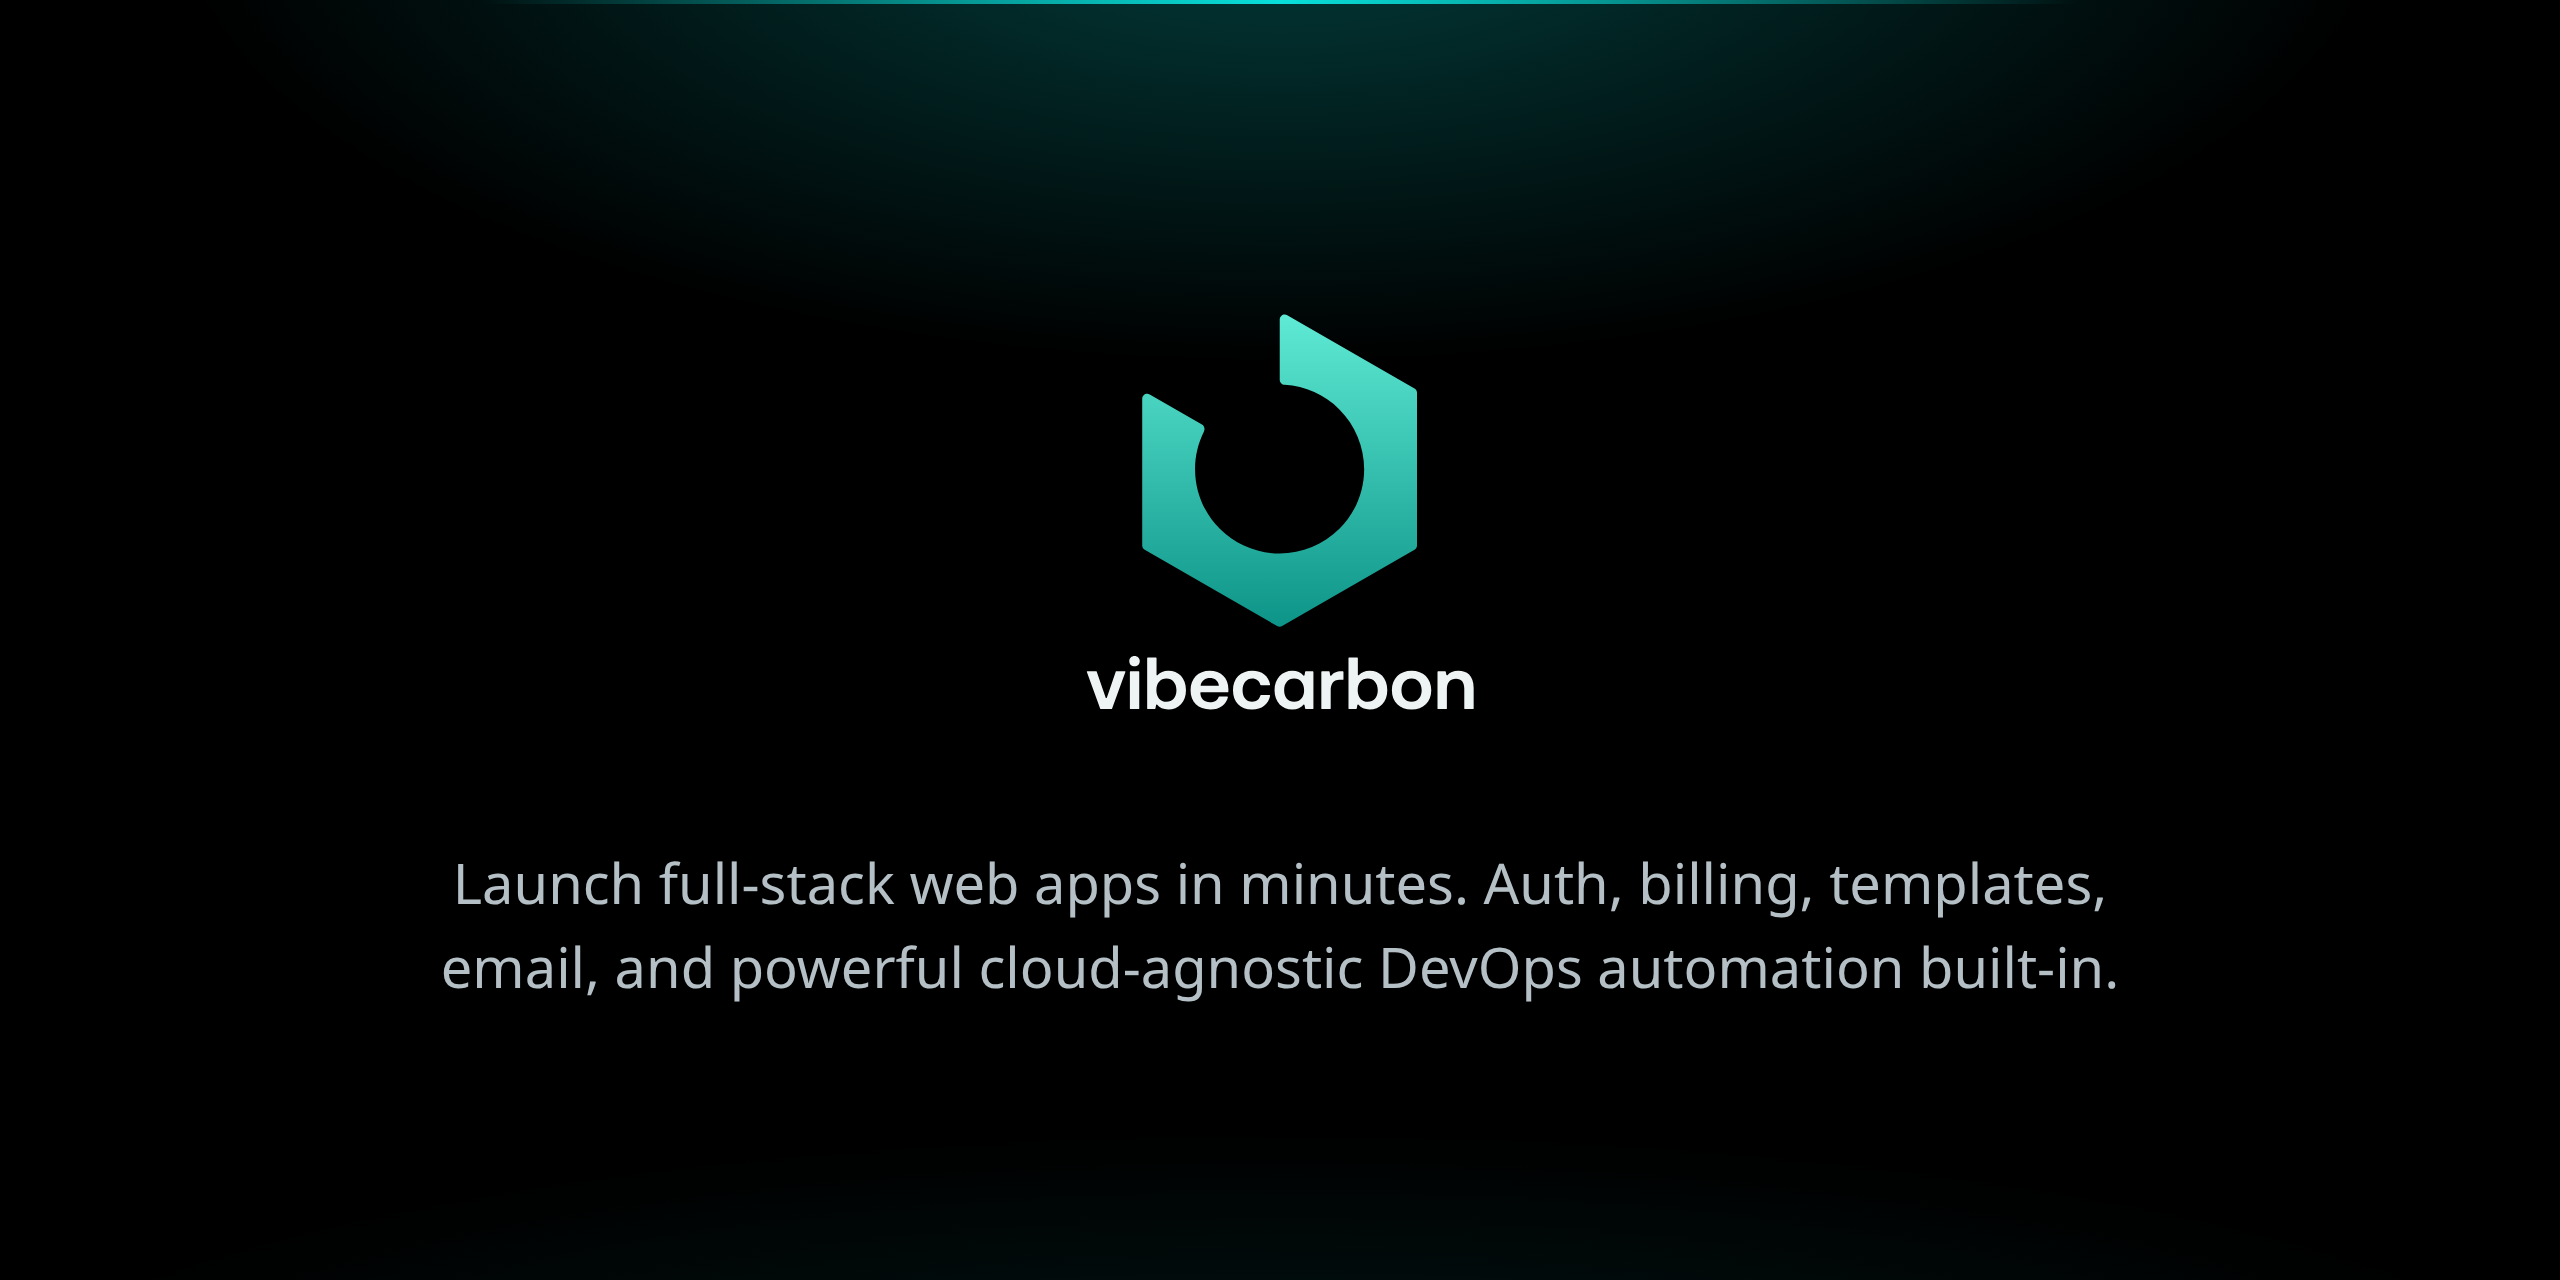
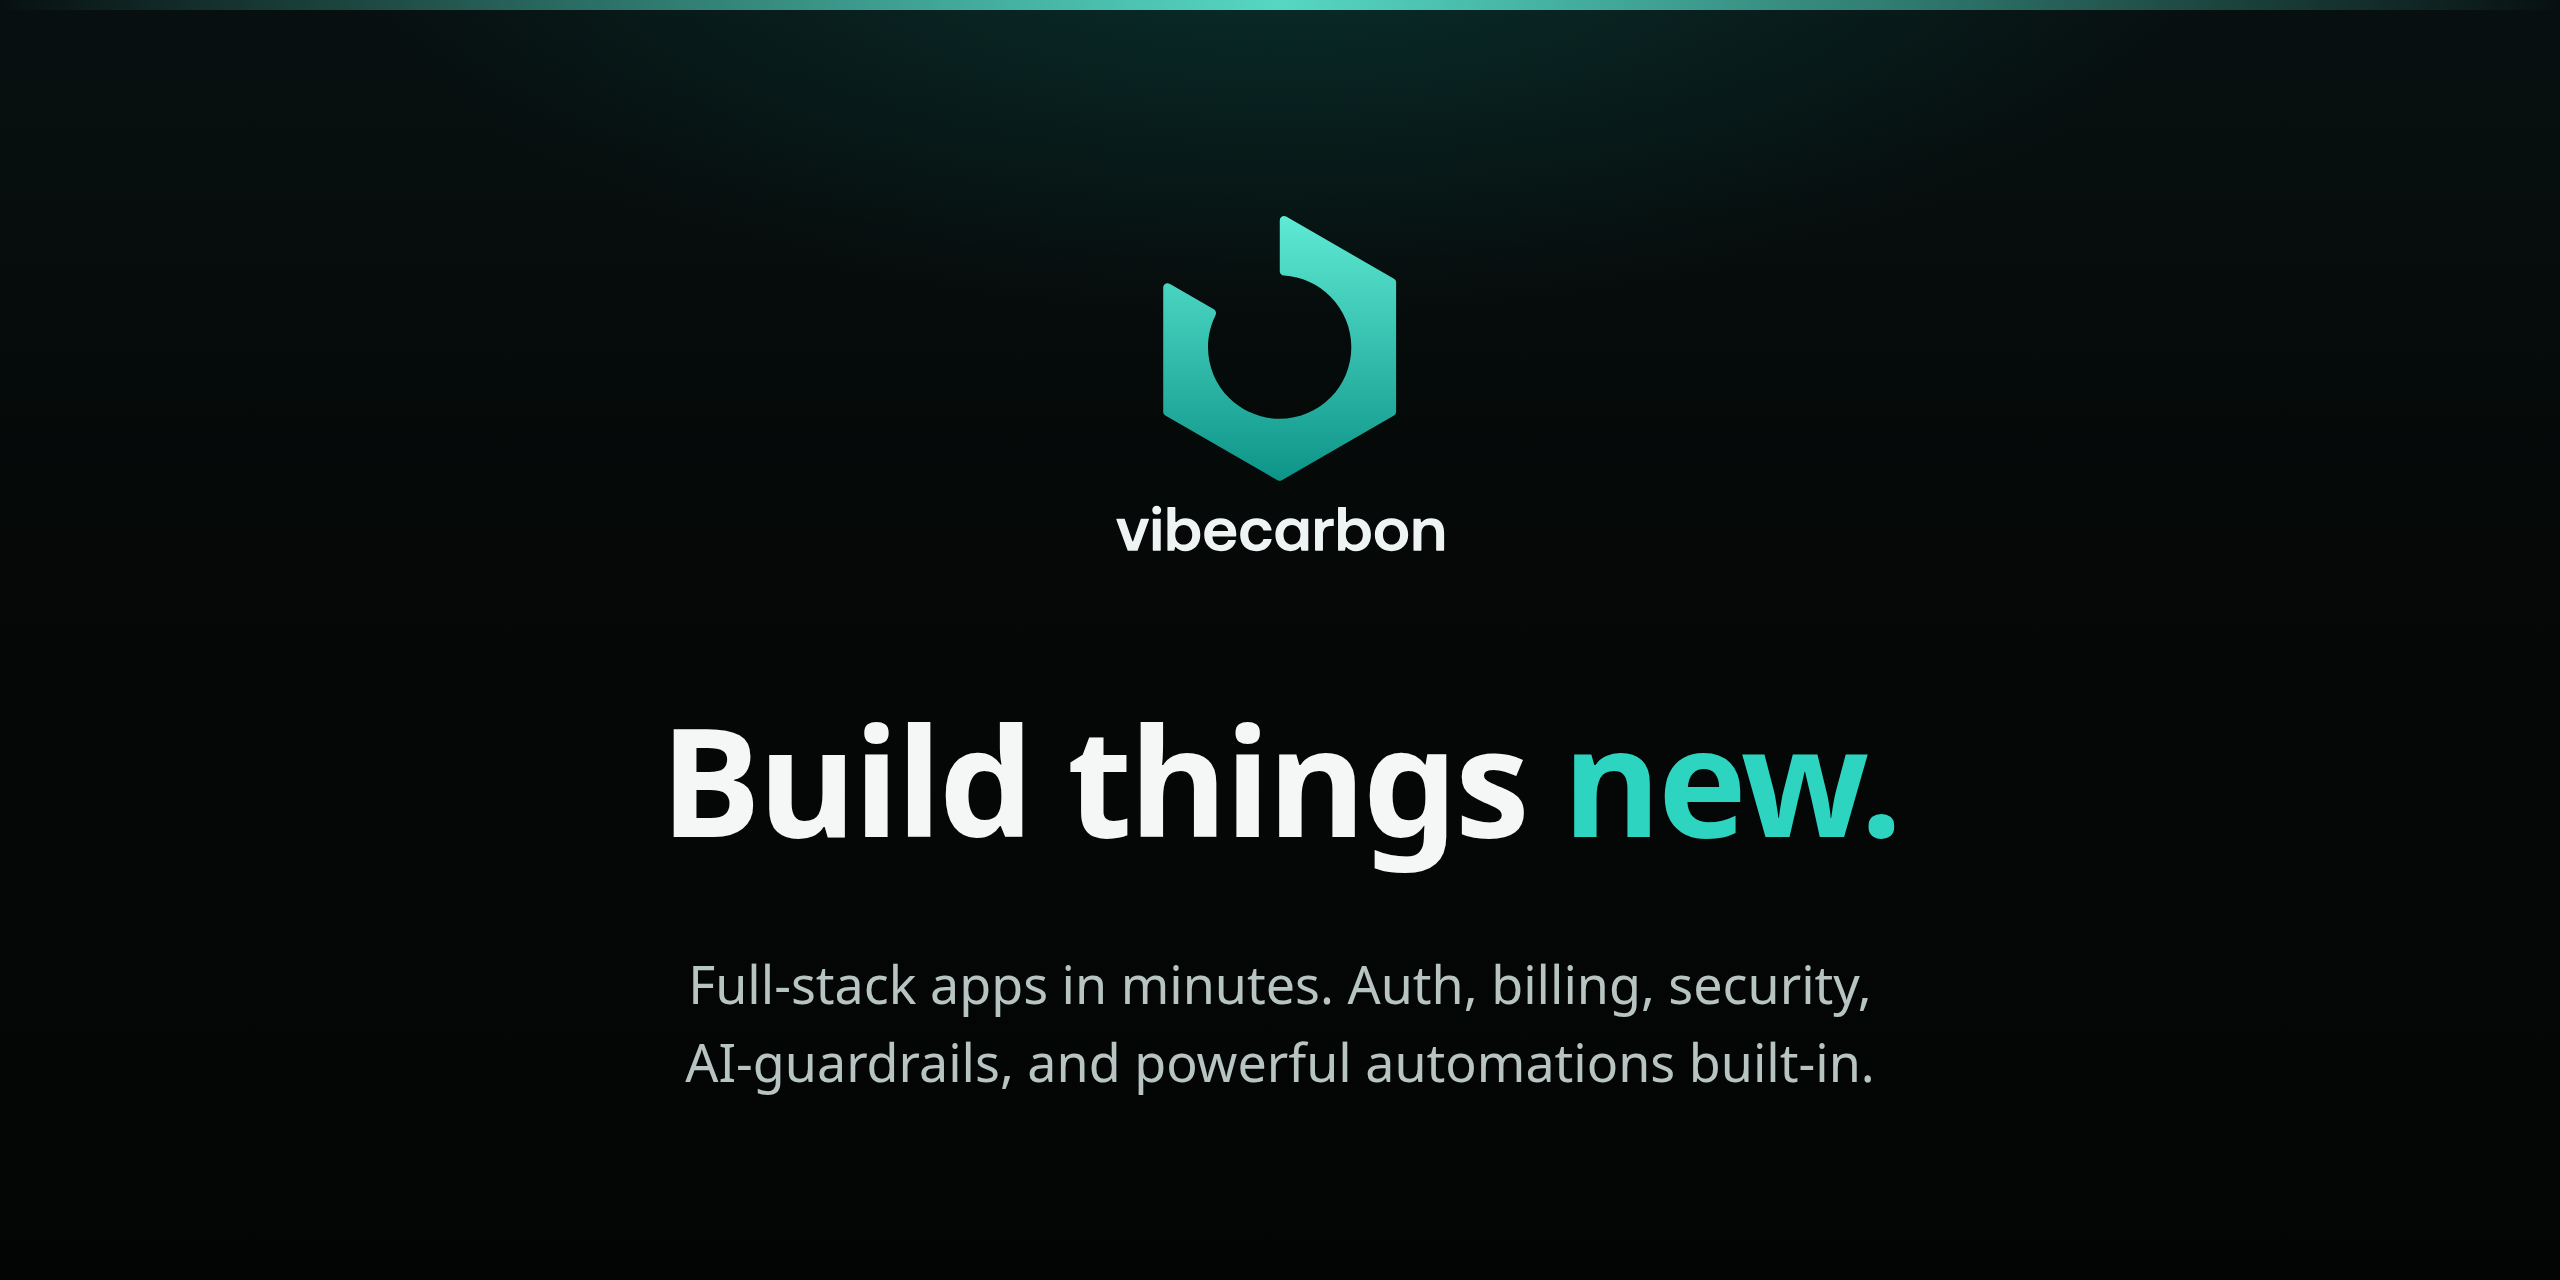
copy(messaging): "Build things new." slogan + tagline -> "Full-stack apps in minutes."
README header now leads with the slogan; tagline shortened in the npm
description, template hero subheading, and template Home SEO
description. GitHub repo description updated to match.
docs/assets/social-preview.png regenerated: lockup + "Build things
new." + current tagline (2560x1280) — re-upload it in GitHub Settings
-> Social preview to take effect there. Mirrors vibecarbon-web 5334a0f.

Changed region(s): [[0.1875, 0.1562, 0.8125, 0.7188], [0.1562, 0.75, 0.8125, 0.8438], [0.0312, 0.0, 0.9688, 0.0312]]

diff --git a/carbon/src/client/pages/Home.tsx b/carbon/src/client/pages/Home.tsx
@@ -106,7 +106,7 @@ export default function VibecarbonHome() {
   return (
     <ScrollytellingProvider>
       <div className="relative min-h-screen">
-        <SEO description="Vibecarbon launches full-stack web apps in minutes — auth, billing, security, AI-guardrails, and powerful automations built-in." />
+        <SEO description="Vibecarbon — full-stack apps in minutes: auth, billing, security, AI-guardrails, and powerful automations built-in." />
         <FilmGrainOverlay opacity={0.025} />
 
         <ScrollSection id="hero" disableEffects>

diff --git a/README.md b/README.md
@@ -5,9 +5,9 @@
   </picture>
 </p>
 
-<p align="center"><strong>Launch full-stack web apps in minutes.</strong></p>
+<p align="center"><strong>Build things new.</strong></p>
 
-<p align="center">Auth, billing, security, AI-guardrails, and powerful automations built-in.</p>
+<p align="center">Full-stack apps in minutes. Auth, billing, security, AI-guardrails, and powerful automations built-in.</p>
 
 <p align="center">
   <a href="https://www.npmjs.com/package/vibecarbon"><img src="https://img.shields.io/npm/v/vibecarbon?color=0a7ea4&label=npm" alt="npm version" /></a>
